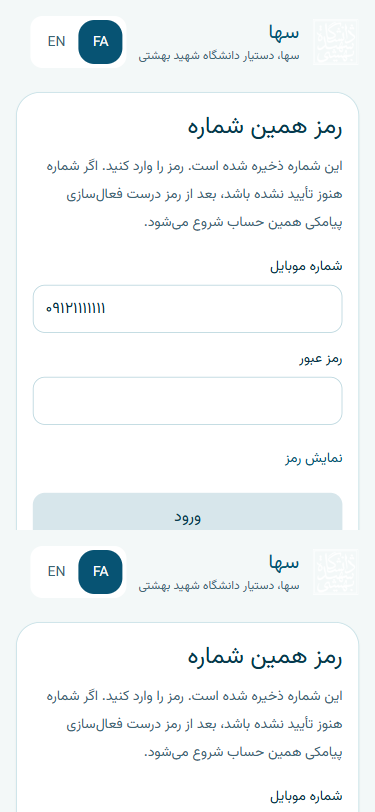
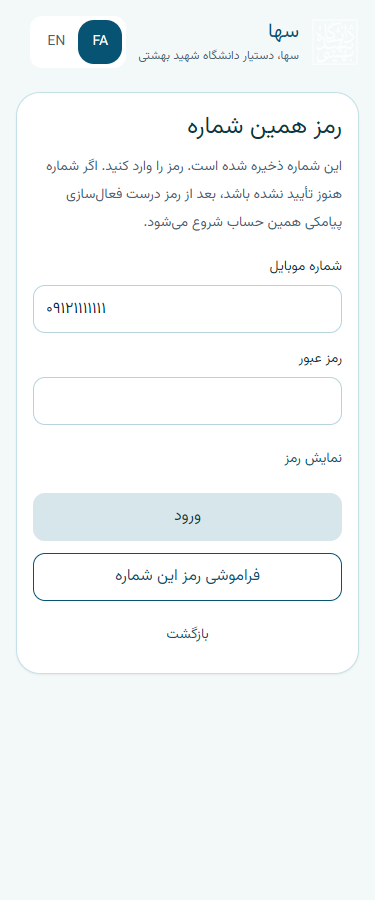
Keep phone-setup guidance without rewriting the server flag, and replace tiled screenshots.
Chrome page.screenshot now captures each auth viewport once, including desktop registration, and continuing from phone setup no longer clears phoneSetupRequired.

diff --git a/components/auth/PhoneAuthExperience.test.tsx b/components/auth/PhoneAuthExperience.test.tsx
@@ -15,9 +15,11 @@ const requestPhonePasswordReset = vi.hoisted(() => vi.fn());
 const verifyPhonePasswordReset = vi.hoisted(() => vi.fn());
 const completePhonePasswordReset = vi.hoisted(() => vi.fn());
 const registerWithPhone = vi.hoisted(() => vi.fn());
+const replace = vi.hoisted(() => vi.fn());
+const refresh = vi.hoisted(() => vi.fn());
 
 vi.mock('next/navigation', () => ({
-  useRouter: () => ({replace: vi.fn(), refresh: vi.fn(), push: vi.fn()}),
+  useRouter: () => ({replace, refresh, push: vi.fn()}),
   usePathname: () => '/fa/auth',
   useSearchParams: () => new URLSearchParams()
 }));
@@ -65,6 +67,8 @@ describe('phone auth OTP countdown', () => {
     identifyPhone.mockReset();
     requestRegistrationOtp.mockReset();
     loginWithPhone.mockReset();
+    replace.mockReset();
+    refresh.mockReset();
     localStorage.clear();
   });
 
@@ -189,5 +193,33 @@ describe('phone auth OTP countdown', () => {
     expect(screen.getByRole('button', {name: 'درخواست دوباره تا 60 ثانیه'})).toBeTruthy();
     expect(document.body.textContent).not.toContain('reset-secret');
     expect(localStorage.length).toBe(0);
+  });
+
+  it('continues from phone setup without clearing phoneSetupRequired', async () => {
+    const result = {
+      phoneSetupRequired: true,
+      isProfileCompleted: true,
+      user: {phoneSetupRequired: true, isProfileCompleted: true}
+    };
+    identifyPhone.mockResolvedValue('password');
+    loginWithPhone.mockResolvedValue({kind: 'session', result});
+    renderAuth();
+    fireEvent.change(screen.getByPlaceholderText('09123456789'), {
+      target: {value: '09120000000'}
+    });
+    await act(async () => {
+      fireEvent.click(screen.getByRole('button', {name: 'ادامه'}));
+    });
+    fireEvent.change(screen.getByLabelText('رمز عبور'), {target: {value: 'secret'}});
+    await act(async () => {
+      fireEvent.click(screen.getByRole('button', {name: 'ورود'}));
+    });
+    expect(await screen.findByText(/شمارهٔ تأییدشده ندارد/)).toBeTruthy();
+    await act(async () => {
+      fireEvent.click(screen.getByRole('button', {name: 'ادامه به سها'}));
+    });
+    expect(result.phoneSetupRequired).toBe(true);
+    expect(result.user.phoneSetupRequired).toBe(true);
+    expect(replace).toHaveBeenCalledWith('/fa/chat');
   });
 });

diff --git a/components/auth/PhoneAuthExperience.tsx b/components/auth/PhoneAuthExperience.tsx
@@ -198,6 +198,10 @@ export function PhoneAuthExperience({locale}: {locale: string}) {
       setStep('phone-setup');
       return;
     }
+    continueToDestination(result);
+  };
+
+  const continueToDestination = (result: LoginResultDTO) => {
     const incomplete =
       result.isProfileCompleted === false || result.user.isProfileCompleted === false;
     router.replace(incomplete ? `/${locale}/profile` : safeNextUrl(searchParams.get('next'), locale));
@@ -678,9 +682,7 @@ export function PhoneAuthExperience({locale}: {locale: string}) {
                   onClick={() => {
                     const result = pendingResult.current;
                     if (!result) return;
-                    result.phoneSetupRequired = false;
-                    result.user.phoneSetupRequired = false;
-                    enterApp(result);
+                    continueToDestination(result);
                   }}
                 >
                   {t('continueToApp')}

diff --git a/docs/PHONE_AUTH_V1.md b/docs/PHONE_AUTH_V1.md
@@ -40,28 +40,31 @@ The branch base is `main` (`ee949ac`). `origin/design/chat-teal-mobile-v1` is no
 
 ## Screenshots
 
-These PNGs were taken in a browser with `Emulation.setDeviceMetricsOverride` at device scale 1, against a local mock of the contract on `127.0.0.1:8099`. They are not a live backend test and not a physical-device test. Measured CSS viewports had no horizontal overflow, inputs at 16px, and buttons at least 44px. Disabled phone fields stay white with `#073044` text.
+The PNGs in `docs/phone-auth-screenshots/` were taken with headless Chrome `page.screenshot` after `setViewport` at device scale 1 and after the target heading was on the page. The viewport height was then set to the document height so the header and form fit in one frame. Each file was opened after saving. The header, form, and copy appear once, and the last action (including «بازگشت») is inside the frame.
+
+They were captured against a local mock of the contract on `127.0.0.1:8099`, not a deployed backend and not a physical device. There was no horizontal overflow.
 
 | File | PNG pixels |
 | --- | --- |
 | `phone-login-320.png` | 320×900 |
-| `phone-login-375.png` | 375×812 |
-| `phone-login-412.png` | 412×812 |
-| `phone-login-1280.png` | 1280×860 |
+| `phone-login-375.png` | 375×900 |
+| `phone-login-412.png` | 412×900 |
+| `phone-login-1280.png` | 1280×900 |
 | `phone-activation-320.png` | 320×900 |
 | `phone-activation-375.png` | 375×900 |
-| `phone-activation-412.png` | 412×860 |
-| `phone-activation-1280.png` | 1280×860 |
-| `phone-register-320.png` | 320×1040 |
-| `phone-register-375.png` | 375×980 |
-| `phone-register-412.png` | 412×860 |
+| `phone-activation-412.png` | 412×900 |
+| `phone-activation-1280.png` | 1280×900 |
+| `phone-register-320.png` | 320×900 |
+| `phone-register-375.png` | 375×900 |
+| `phone-register-412.png` | 412×900 |
+| `phone-register-1280.png` | 1280×900 |
 | `phone-reset-320.png` | 320×900 |
 | `phone-reset-375.png` | 375×900 |
-| `phone-reset-412.png` | 412×860 |
-| `phone-reset-1280.png` | 1280×860 |
+| `phone-reset-412.png` | 412×900 |
+| `phone-reset-1280.png` | 1280×900 |
 | `phone-error-320.png` | 320×900 |
 | `phone-error-375.png` | 375×900 |
-| `phone-error-412.png` | 412×860 |
-| `phone-error-1280.png` | 1280×860 |
+| `phone-error-412.png` | 412×900 |
+| `phone-error-1280.png` | 1280×900 |
 
-Registration at 1280 CSS px was measured in the page (`innerWidth` 1280, `scrollWidth` 1280, one heading). The screenshot buffer repeated a narrow strip, so that PNG was not kept.
+Desktop registration is included as `phone-register-1280.png`.
